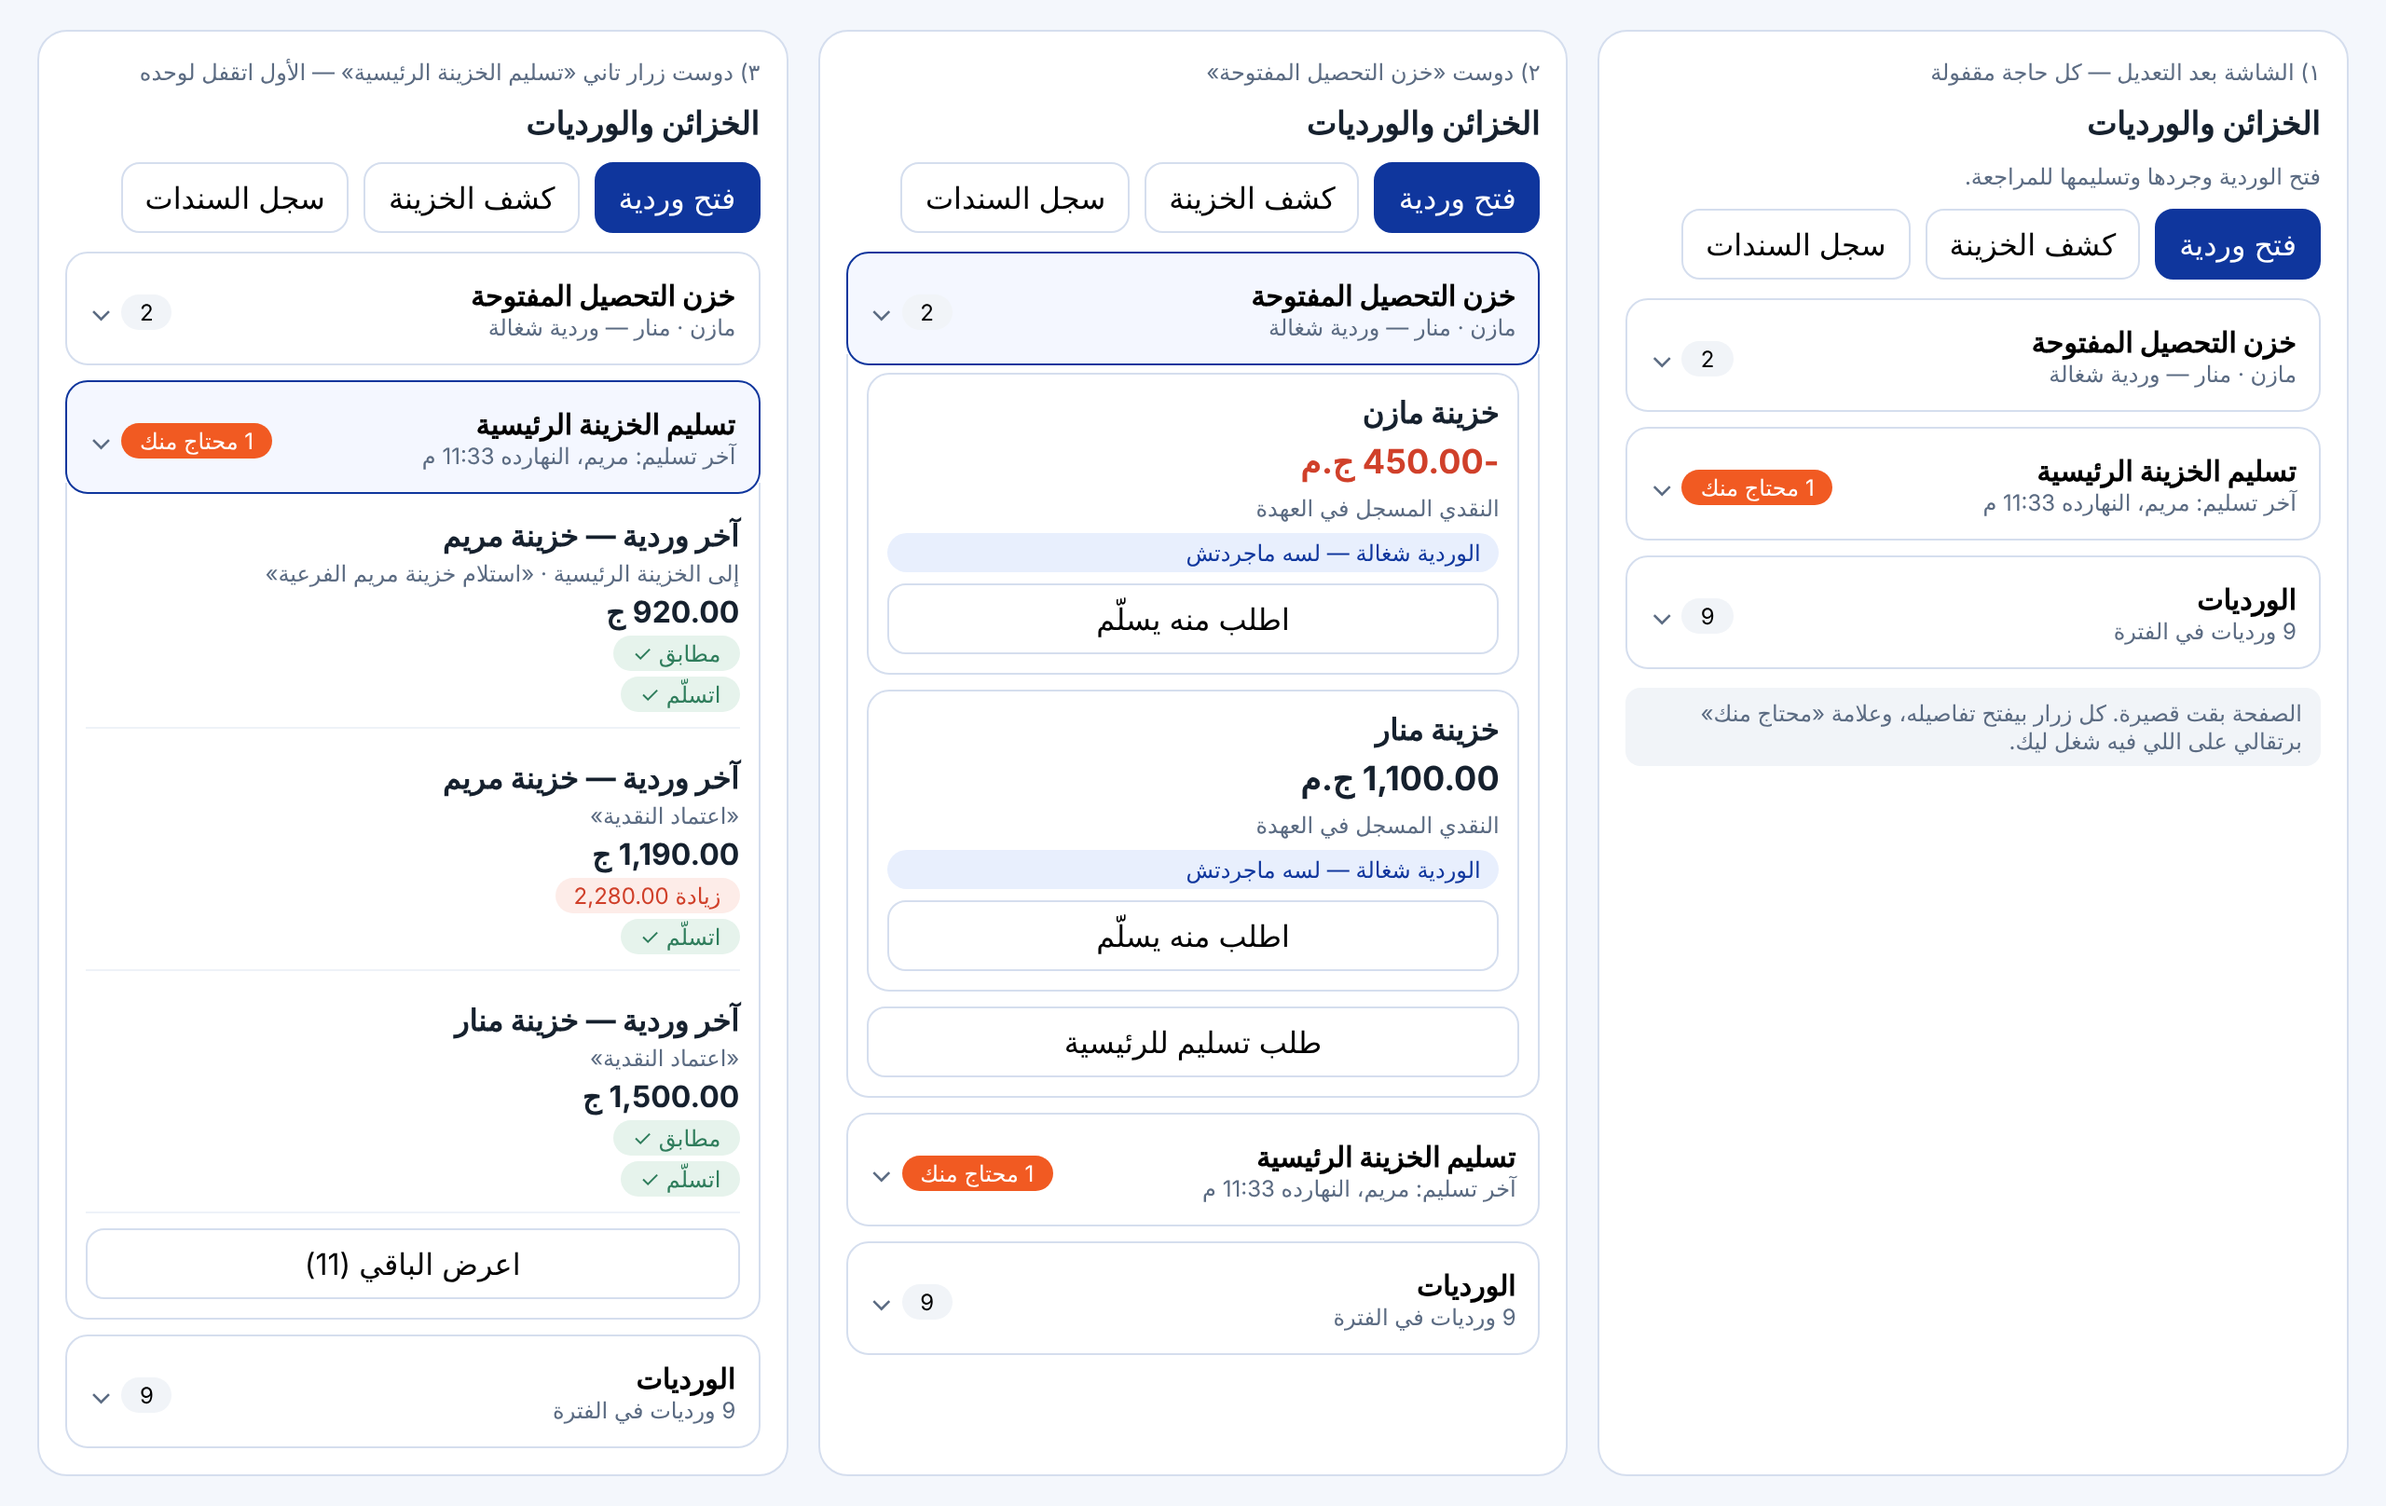
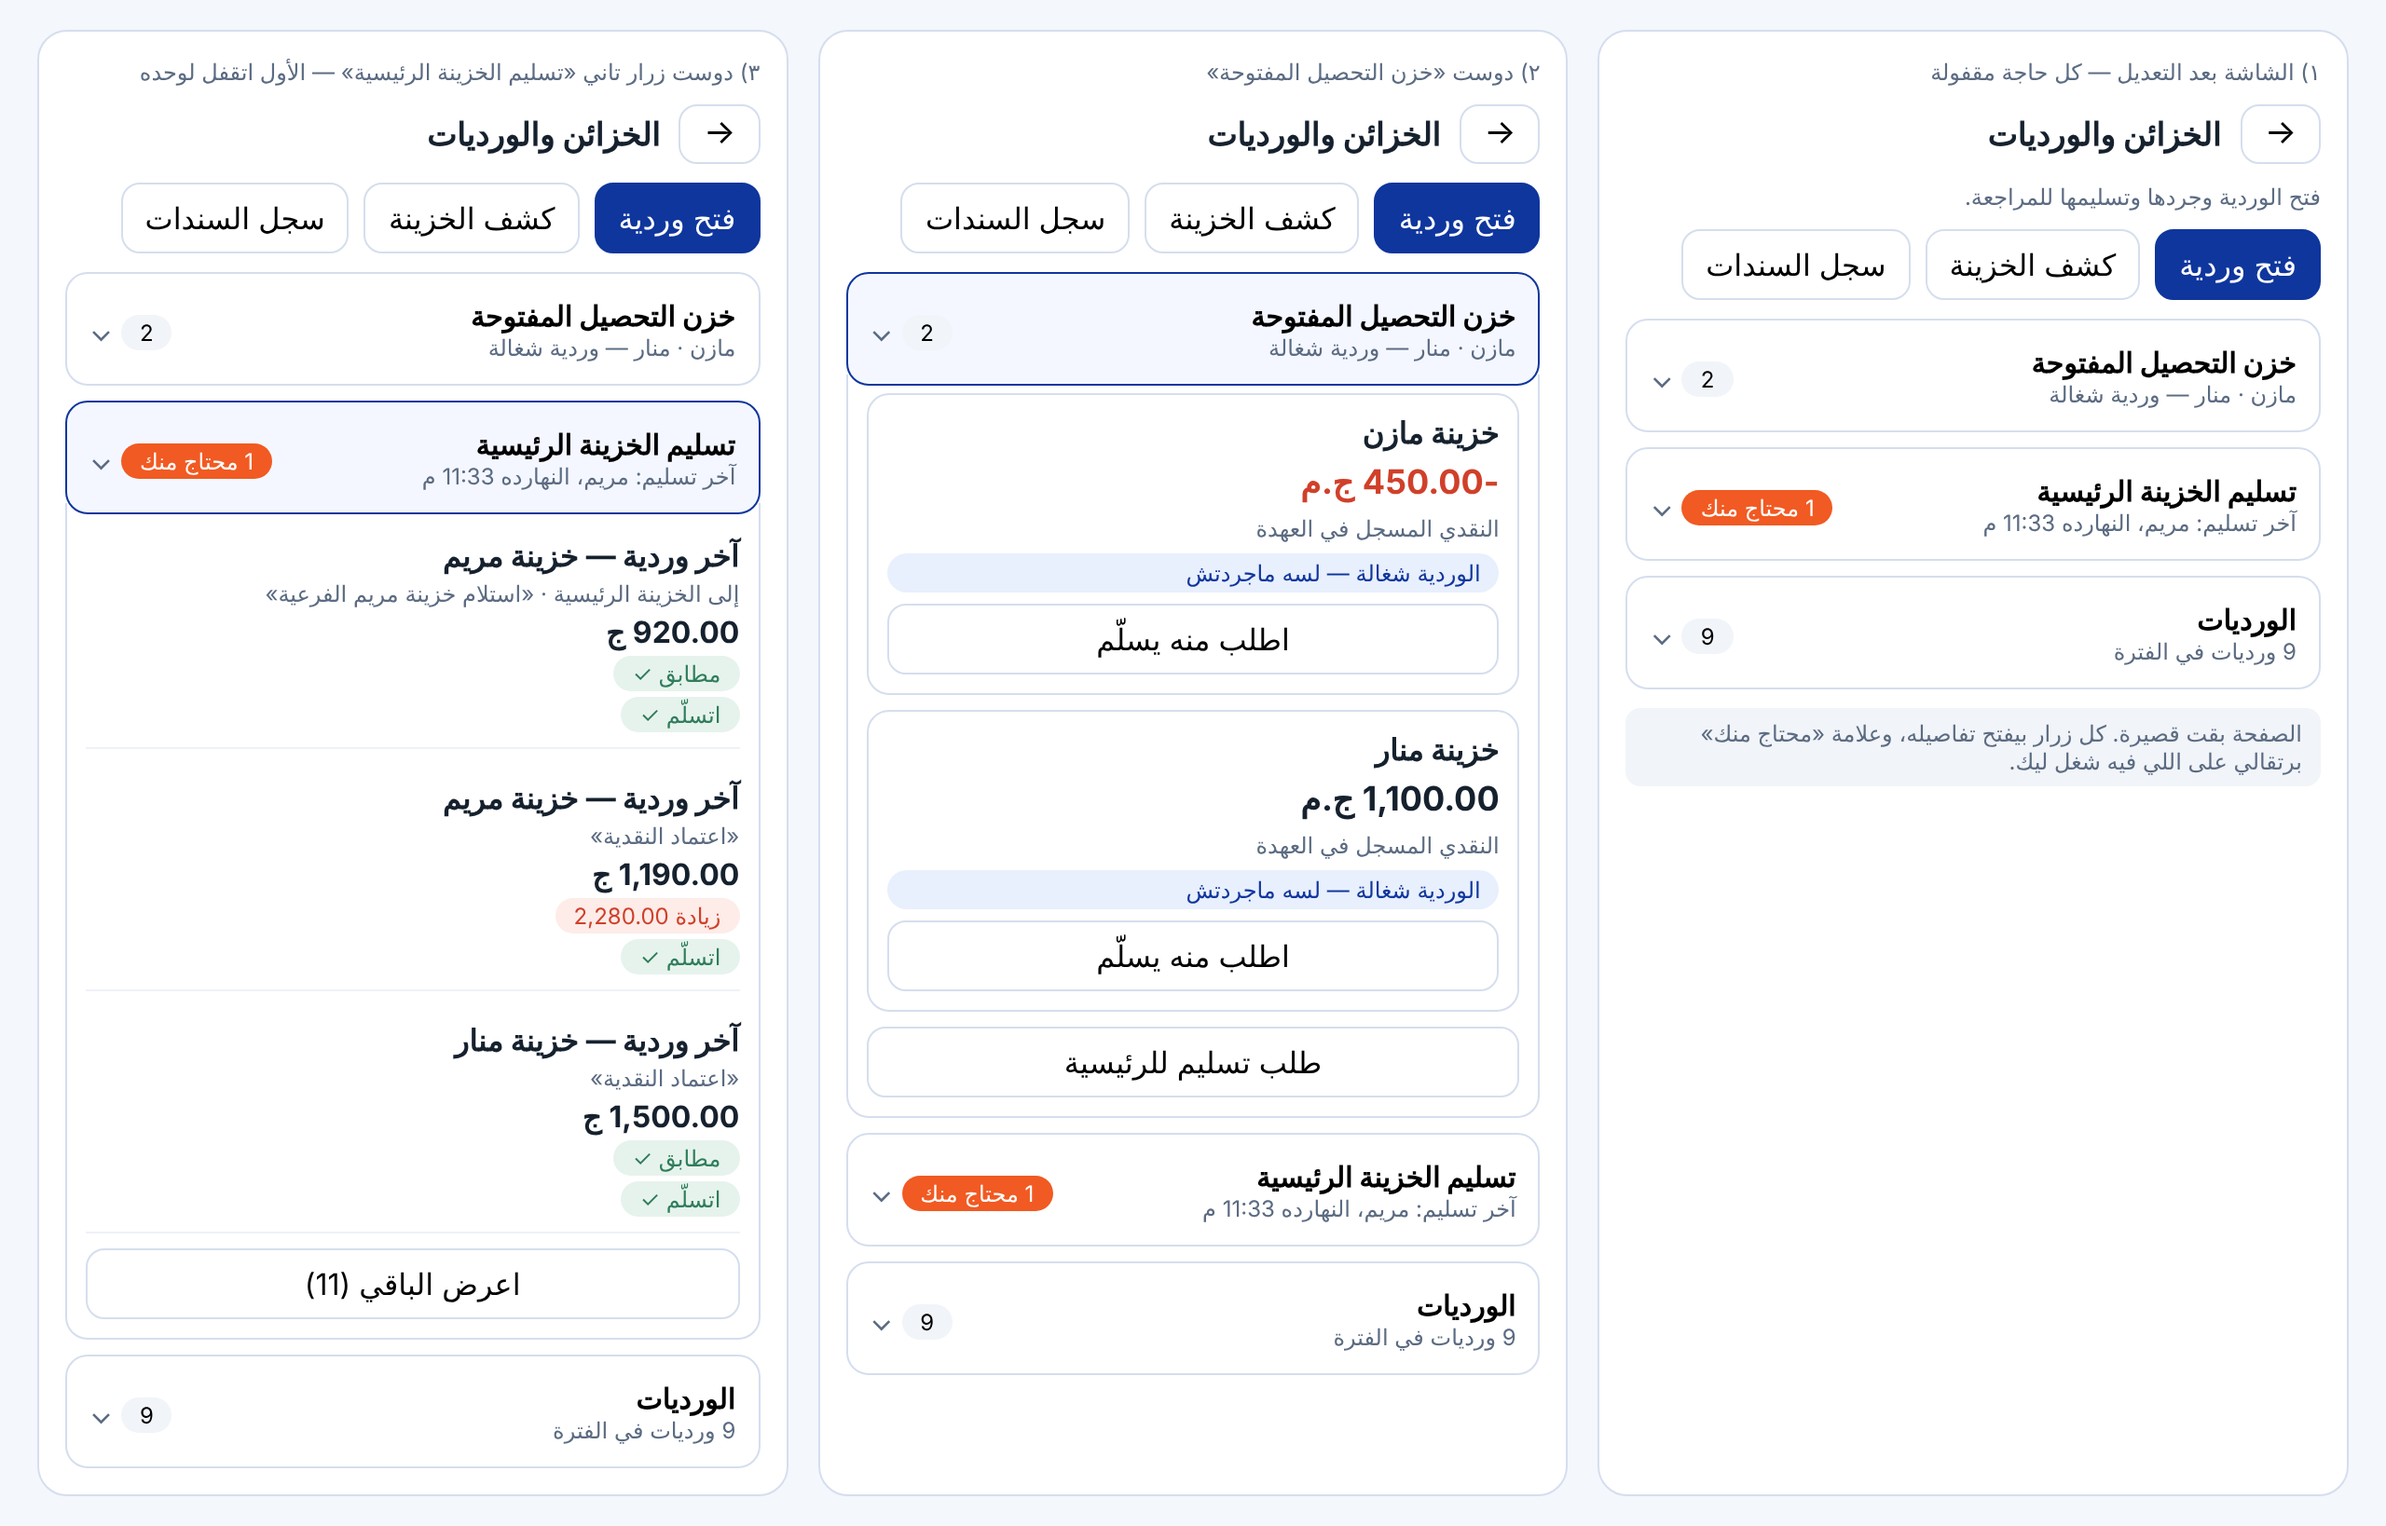
Mockup: back arrow on treasury accordion screen

diff --git a/docs/ui-references/mockups/treasury-accordion.html b/docs/ui-references/mockups/treasury-accordion.html
@@ -5,6 +5,7 @@
 .cap{font-size:12px;color:#5b6b82}h3{margin:0;font-size:17px}p{margin:0}
 .btn{border:1px solid #D5DEEE;background:#fff;border-radius:10px;padding:8px 12px;font:inherit;min-width:0}.pri{background:#0F369D;color:#fff;border-color:#0F369D}
 .row{display:flex;gap:8px;flex-wrap:wrap}
+.top{display:flex;align-items:center;gap:10px}.bk{padding:6px 12px;font-size:18px;line-height:1}
 .acc{display:grid;gap:8px}
 .ah{width:100%;display:flex;justify-content:space-between;align-items:center;gap:8px;border:1px solid #D5DEEE;background:#fff;border-radius:12px;padding:12px;font:inherit;text-align:start;cursor:pointer;min-width:0}
 .ah b{font-size:15px}.ah small{display:block;color:#5b6b82;font-size:12px}
@@ -21,7 +22,7 @@
 .note{font-size:12px;color:#5b6b82;background:#F1F4F8;border-radius:8px;padding:6px 10px}
 @media(max-width:700px){.wrap{grid-template-columns:minmax(0,1fr)}}</style>
 <div class="wrap">
-<section class="card" data-demo="closed"><span class="cap">١) الشاشة بعد التعديل — كل حاجة مقفولة</span><h3>الخزائن والورديات</h3>
+<section class="card" data-demo="closed"><span class="cap">١) الشاشة بعد التعديل — كل حاجة مقفولة</span><div class="top"><button class="btn bk" aria-label="رجوع">→</button><h3>الخزائن والورديات</h3></div>
 <p class="cap">فتح الوردية وجردها وتسليمها للمراجعة.</p>
 <div class="row"><button class="btn pri">فتح وردية</button><button class="btn">كشف الخزينة</button><button class="btn">سجل السندات</button></div>
 <div class="acc">
@@ -30,7 +31,7 @@
 <div class="item"><button class="ah" type="button"><span><b>الورديات</b><small>9 ورديات في الفترة</small></span><span><span class="badge">9</span> <span class="chev">⌄</span></span></button></div>
 </div><div class="note">الصفحة بقت قصيرة. كل زرار بيفتح تفاصيله، وعلامة «محتاج منك» برتقالي على اللي فيه شغل ليك.</div></section>
 
-<section class="card" data-demo="open1"><span class="cap">٢) دوست «خزن التحصيل المفتوحة»</span><h3>الخزائن والورديات</h3>
+<section class="card" data-demo="open1"><span class="cap">٢) دوست «خزن التحصيل المفتوحة»</span><div class="top"><button class="btn bk" aria-label="رجوع">→</button><h3>الخزائن والورديات</h3></div>
 <div class="row"><button class="btn pri">فتح وردية</button><button class="btn">كشف الخزينة</button><button class="btn">سجل السندات</button></div>
 <div class="acc">
 <div class="item open"><button class="ah" type="button" aria-expanded="true"><span><b>خزن التحصيل المفتوحة</b><small>مازن · منار — وردية شغالة</small></span><span><span class="badge">2</span> <span class="chev">⌄</span></span></button>
@@ -41,7 +42,7 @@
 <div class="item"><button class="ah" type="button" aria-expanded="false"><span><b>الورديات</b><small>9 ورديات في الفترة</small></span><span><span class="badge">9</span> <span class="chev">⌄</span></span></button></div>
 </div></section>
 
-<section class="card" data-demo="open2"><span class="cap">٣) دوست زرار تاني «تسليم الخزينة الرئيسية» — الأول اتقفل لوحده</span><h3>الخزائن والورديات</h3>
+<section class="card" data-demo="open2"><span class="cap">٣) دوست زرار تاني «تسليم الخزينة الرئيسية» — الأول اتقفل لوحده</span><div class="top"><button class="btn bk" aria-label="رجوع">→</button><h3>الخزائن والورديات</h3></div>
 <div class="row"><button class="btn pri">فتح وردية</button><button class="btn">كشف الخزينة</button><button class="btn">سجل السندات</button></div>
 <div class="acc">
 <div class="item"><button class="ah" type="button" aria-expanded="false"><span><b>خزن التحصيل المفتوحة</b><small>مازن · منار — وردية شغالة</small></span><span><span class="badge">2</span> <span class="chev">⌄</span></span></button></div>
